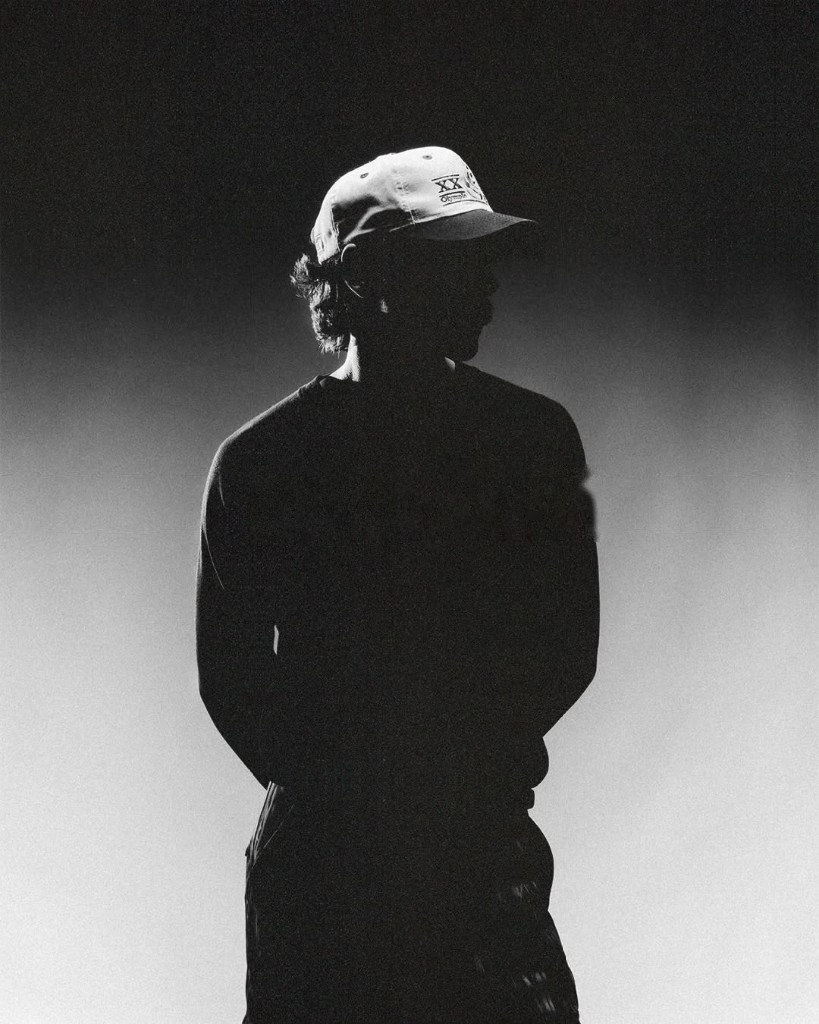
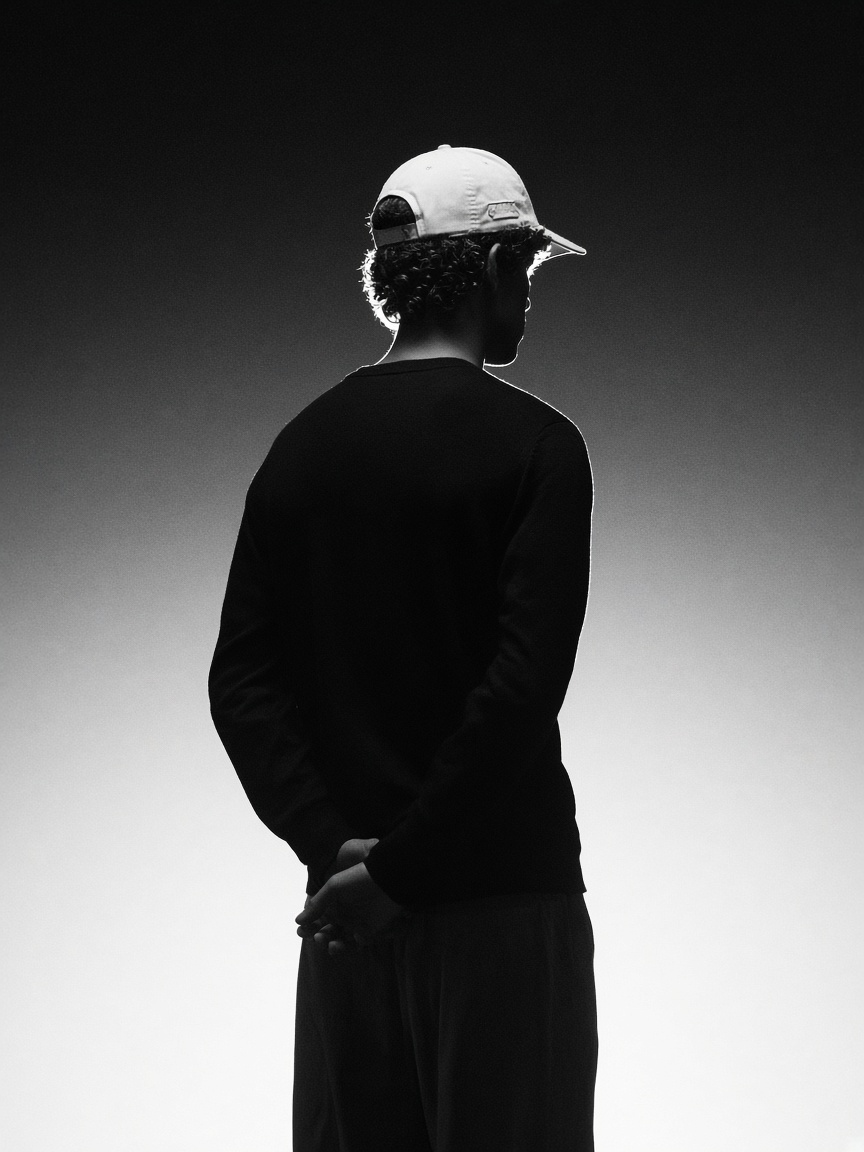
Add admin save notifications and new hero photo

diff --git a/src/components/admin/AdminToast.tsx b/src/components/admin/AdminToast.tsx
@@ -1,0 +1,64 @@
+"use client";
+
+import { createContext, useCallback, useContext, useEffect, useRef, useState } from "react";
+import { AnimatePresence, motion } from "framer-motion";
+import { AlertCircle, Check } from "lucide-react";
+import { cn } from "@/lib/cn";
+import { easeOut } from "../ui/Section";
+
+type Toast = { id: number; message: string; ok: boolean };
+
+const VISIBLE_MS = 2500;
+
+const AdminToastContext = createContext<((message: string, ok?: boolean) => void) | null>(null);
+
+/** Lives in the dashboard layout, so a toast survives navigating to another admin page. */
+export function AdminToastProvider({ children }: { children: React.ReactNode }) {
+  const [toast, setToast] = useState<Toast | null>(null);
+  const nextId = useRef(0);
+
+  const notify = useCallback((message: string, ok = true) => {
+    nextId.current += 1;
+    setToast({ id: nextId.current, message, ok });
+  }, []);
+
+  useEffect(() => {
+    if (!toast) return;
+    const timer = setTimeout(() => setToast(null), VISIBLE_MS);
+    return () => clearTimeout(timer);
+  }, [toast]);
+
+  return (
+    <AdminToastContext value={notify}>
+      {children}
+      <div
+        aria-live="polite"
+        className="pointer-events-none fixed inset-x-0 bottom-6 z-50 flex justify-center px-4 lg:justify-end lg:px-8"
+      >
+        <AnimatePresence mode="wait">
+          {toast && (
+            <motion.div
+              key={toast.id}
+              initial={{ opacity: 0, y: 12, scale: 0.96 }}
+              animate={{ opacity: 1, y: 0, scale: 1 }}
+              exit={{ opacity: 0, y: 12, scale: 0.96 }}
+              transition={{ duration: 0.25, ease: easeOut }}
+              className="pointer-events-auto flex items-center gap-3 rounded-full bg-night py-2 pr-5 pl-2.5 text-sm font-medium text-white shadow-xl shadow-black/20 dark:ring-1 dark:ring-white/10"
+            >
+              <span className={cn("grid size-6 place-items-center rounded-full", toast.ok ? "bg-accent" : "bg-danger")}>
+                {toast.ok ? <Check className="size-3.5" aria-hidden="true" /> : <AlertCircle className="size-3.5" aria-hidden="true" />}
+              </span>
+              {toast.message}
+            </motion.div>
+          )}
+        </AnimatePresence>
+      </div>
+    </AdminToastContext>
+  );
+}
+
+export function useAdminToast() {
+  const notify = useContext(AdminToastContext);
+  if (!notify) throw new Error("useAdminToast must be used inside <AdminToastProvider>");
+  return notify;
+}

diff --git a/src/components/admin/OrderControls.tsx b/src/components/admin/OrderControls.tsx
@@ -7,9 +7,11 @@ import { saveOrderNote, setOrderStatus } from "@/app/admin/actions";
 import { orderStatuses } from "@/data/store";
 import { cn } from "@/lib/cn";
 import { TextArea } from "../ui/fields";
+import { useAdminToast } from "./AdminToast";
 
 export function OrderStatusControl({ orderId, status }: { orderId: string; status: string }) {
   const router = useRouter();
+  const notify = useAdminToast();
   const [pending, startTransition] = useTransition();
   const [error, setError] = useState("");
   const cancelled = status === "cancelled";
@@ -22,7 +24,8 @@ export function OrderStatusControl({ orderId, status }: { orderId: string; statu
     startTransition(async () => {
       setError("");
       const result = await setOrderStatus(orderId, next);
-      if (!result.ok) setError(result.error);
+      if (result.ok) notify("Changes saved");
+      else setError(result.error);
       router.refresh();
     });
   };
@@ -63,17 +66,18 @@ export function OrderStatusControl({ orderId, status }: { orderId: string; statu
 export function OrderNote({ orderId, note }: { orderId: string; note: string }) {
   const [value, setValue] = useState(note);
   const [saved, setSaved] = useState(note);
-  const [message, setMessage] = useState("");
+  const [error, setError] = useState("");
   const [pending, startTransition] = useTransition();
+  const notify = useAdminToast();
 
   const save = () =>
     startTransition(async () => {
       const result = await saveOrderNote(orderId, value);
       if (result.ok) {
         setSaved(value);
-        setMessage("Saved.");
+        notify("Changes saved");
       } else {
-        setMessage(result.error);
+        setError(result.error);
       }
     });
 
@@ -87,12 +91,12 @@ export function OrderNote({ orderId, note }: { orderId: string; note: string }) 
         value={value}
         onChange={(e) => {
           setValue(e.target.value);
-          setMessage("");
+          setError("");
         }}
         placeholder="Only you can see this, e.g. paid via MoMo, rider name…"
       />
       <div className="mt-2 flex items-center justify-end gap-3">
-        {message && <span className="text-sm text-muted">{message}</span>}
+        {error && <span className="text-sm text-danger">{error}</span>}
         <button
           type="button"
           onClick={save}

diff --git a/src/components/admin/ProductRowActions.tsx b/src/components/admin/ProductRowActions.tsx
@@ -1,11 +1,12 @@
 "use client";
 
-import { useState, useTransition } from "react";
+import { useTransition } from "react";
 import Link from "next/link";
 import { useRouter } from "next/navigation";
 import { Pencil, Star, Trash2 } from "lucide-react";
 import { deleteProduct, setProductFlag } from "@/app/admin/actions";
 import { cn } from "@/lib/cn";
+import { useAdminToast } from "./AdminToast";
 
 export function Toggle({
   checked,
@@ -53,20 +54,19 @@ export function ProductRowActions({
   featured: boolean;
 }) {
   const router = useRouter();
+  const notify = useAdminToast();
   const [pending, startTransition] = useTransition();
-  const [error, setError] = useState("");
 
-  const run = (action: () => Promise<{ ok: boolean; error?: string }>) =>
+  const run = (action: () => Promise<{ ok: boolean; error?: string }>, success = "Changes saved") =>
     startTransition(async () => {
-      setError("");
       const result = await action();
-      if (!result.ok) setError(result.error ?? "Something went wrong.");
+      if (result.ok) notify(success);
+      else notify(result.error ?? "Something went wrong.", false);
       router.refresh();
     });
 
   return (
     <div className="flex flex-wrap items-center gap-1 sm:justify-end sm:gap-3">
-      {error && <span className="w-full text-xs text-danger sm:w-auto">{error}</span>}
       <label className="mr-auto flex items-center gap-2 text-xs text-muted sm:mr-0">
         <Toggle
           checked={isActive}
@@ -102,7 +102,7 @@ export function ProductRowActions({
         disabled={pending}
         onClick={() => {
           if (confirm(`Delete "${name}"? This can't be undone. To hide it instead, switch it off.`)) {
-            run(() => deleteProduct(id));
+            run(() => deleteProduct(id), "Product deleted");
           }
         }}
         aria-label={`Delete ${name}`}

diff --git a/src/components/admin/ProductForm.tsx b/src/components/admin/ProductForm.tsx
@@ -2,6 +2,7 @@
 
 import { useRef, useState, useTransition } from "react";
 import Link from "next/link";
+import { useRouter } from "next/navigation";
 import { ArrowLeft, ArrowRight, ImagePlus, Loader2, Plus, Trash2, X } from "lucide-react";
 import { saveProduct } from "@/app/admin/actions";
 import { allSizes, badges, categories, defaultSizesFor, type Badge, type Category } from "@/data/store";
@@ -12,6 +13,7 @@ import { createBrowserSupabase } from "@/lib/supabase/browser";
 import { PRODUCT_IMAGES_BUCKET } from "@/lib/supabase/env";
 import { ProductImage } from "../ui/ProductImage";
 import { Field, Select, TextArea, TextInput } from "../ui/fields";
+import { useAdminToast } from "./AdminToast";
 import { Toggle } from "./ProductRowActions";
 import { Card } from "./ui";
 
@@ -126,6 +128,8 @@ export function ProductForm({ product, nextSortOrder = 0 }: { product: Product |
   const [uploadError, setUploadError] = useState("");
   const [fillValue, setFillValue] = useState("");
   const [pending, startTransition] = useTransition();
+  const router = useRouter();
+  const notify = useAdminToast();
   const nextColorId = useRef(form.colors.length);
   const fileInput = useRef<HTMLInputElement>(null);
 
@@ -236,7 +240,10 @@ export function ProductForm({ product, nextSortOrder = 0 }: { product: Product |
     setFormError("");
     startTransition(async () => {
       const result = await saveProduct(product?.id ?? null, input);
-      if (result && !result.ok) {
+      if (result.ok) {
+        notify(product ? "Changes saved" : "Product added");
+        router.push("/admin/products");
+      } else {
         setErrors(result.fieldErrors ?? {});
         setFormError(result.error);
       }

diff --git a/src/components/admin/ImportStarterButton.tsx b/src/components/admin/ImportStarterButton.tsx
@@ -1,32 +1,28 @@
 "use client";
 
-import { useState, useTransition } from "react";
+import { useTransition } from "react";
 import { useRouter } from "next/navigation";
 import { Download, Loader2 } from "lucide-react";
 import { importStarterProducts } from "@/app/admin/actions";
 import { cn } from "@/lib/cn";
+import { useAdminToast } from "./AdminToast";
 
 export function ImportStarterButton({ prominent = false }: { prominent?: boolean }) {
   const router = useRouter();
+  const notify = useAdminToast();
   const [pending, startTransition] = useTransition();
-  const [message, setMessage] = useState("");
 
   const run = () =>
     startTransition(async () => {
       const result = await importStarterProducts();
-      setMessage(
-        result.ok
-          ? result.count
-            ? `Imported ${result.count} products.`
-            : "All starter products are already in your catalogue."
-          : result.error,
-      );
+      if (!result.ok) notify(result.error, false);
+      else if (result.count) notify(`Imported ${result.count} products`);
+      else notify("All starter products are already in your catalogue");
       router.refresh();
     });
 
   return (
     <div className="flex items-center gap-3">
-      {message && <span className="text-sm text-muted">{message}</span>}
       <button
         type="button"
         onClick={run}

diff --git a/src/app/admin/(dashboard)/layout.tsx b/src/app/admin/(dashboard)/layout.tsx
@@ -1,14 +1,17 @@
 import { Suspense } from "react";
 import { AdminNav, AdminNavShell } from "@/components/admin/AdminNav";
+import { AdminToastProvider } from "@/components/admin/AdminToast";
 import { isSupabaseConfigured } from "@/lib/supabase/env";
 
 export default function DashboardLayout({ children }: { children: React.ReactNode }) {
   return (
-    <div className="lg:grid lg:grid-cols-[260px_1fr]">
-      <Suspense fallback={<AdminNavShell pathname={null} showSignOut={isSupabaseConfigured} />}>
-        <AdminNav showSignOut={isSupabaseConfigured} />
-      </Suspense>
-      <main className="min-w-0 px-4 py-6 sm:px-8 lg:px-10 lg:py-10">{children}</main>
-    </div>
+    <AdminToastProvider>
+      <div className="lg:grid lg:grid-cols-[260px_1fr]">
+        <Suspense fallback={<AdminNavShell pathname={null} showSignOut={isSupabaseConfigured} />}>
+          <AdminNav showSignOut={isSupabaseConfigured} />
+        </Suspense>
+        <main className="min-w-0 px-4 py-6 sm:px-8 lg:px-10 lg:py-10">{children}</main>
+      </div>
+    </AdminToastProvider>
   );
 }

diff --git a/src/app/admin/actions.ts b/src/app/admin/actions.ts
@@ -64,7 +64,7 @@ function storagePaths(urls: string[]) {
   return urls.filter((url) => url.startsWith(publicPrefix)).map((url) => decodeURIComponent(url.slice(publicPrefix.length)));
 }
 
-export type SaveProductResult = { ok: false; error: string; fieldErrors?: ProductInputErrors };
+export type SaveProductResult = { ok: true } | { ok: false; error: string; fieldErrors?: ProductInputErrors };
 
 export async function saveProduct(id: string | null, input: ProductInput): Promise<SaveProductResult> {
   const { supabase } = await requireAdmin();
@@ -102,7 +102,7 @@ export async function saveProduct(id: string | null, input: ProductInput): Promi
   if (removed.length) await supabase.storage.from(PRODUCT_IMAGES_BUCKET).remove(removed);
 
   updateTag(PRODUCTS_TAG);
-  redirect("/admin/products");
+  return { ok: true };
 }
 
 export async function deleteProduct(id: string): Promise<ActionResult> {

diff --git a/src/components/Hero.tsx b/src/components/Hero.tsx
@@ -27,7 +27,7 @@ export function Hero({ products }: { products: Product[] }) {
         initial={{ opacity: 0, scale: 1.04 }}
         animate={{ opacity: 1, scale: 1 }}
         transition={{ duration: 1.4, ease: easeOut }}
-        className="absolute inset-0 lg:inset-y-0 lg:right-auto lg:left-1/2 lg:h-full lg:aspect-[819/1024] lg:-translate-x-1/2 lg:[mask-image:linear-gradient(to_right,transparent,black_20%,black_80%,transparent)]"
+        className="absolute inset-0 lg:inset-y-0 lg:right-auto lg:left-1/2 lg:h-full lg:aspect-[3/4] lg:-translate-x-1/2 lg:[mask-image:linear-gradient(to_right,transparent,black_20%,black_80%,transparent)]"
       >
         <Image
           src={heroPhoto}
